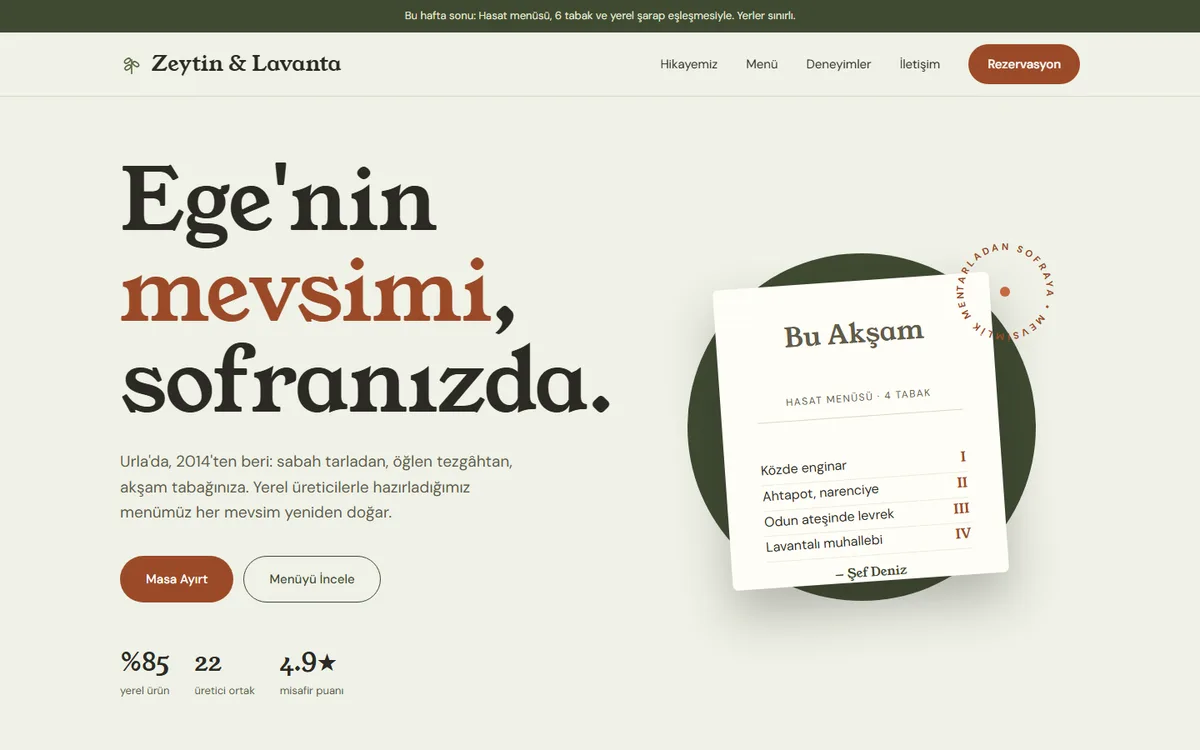
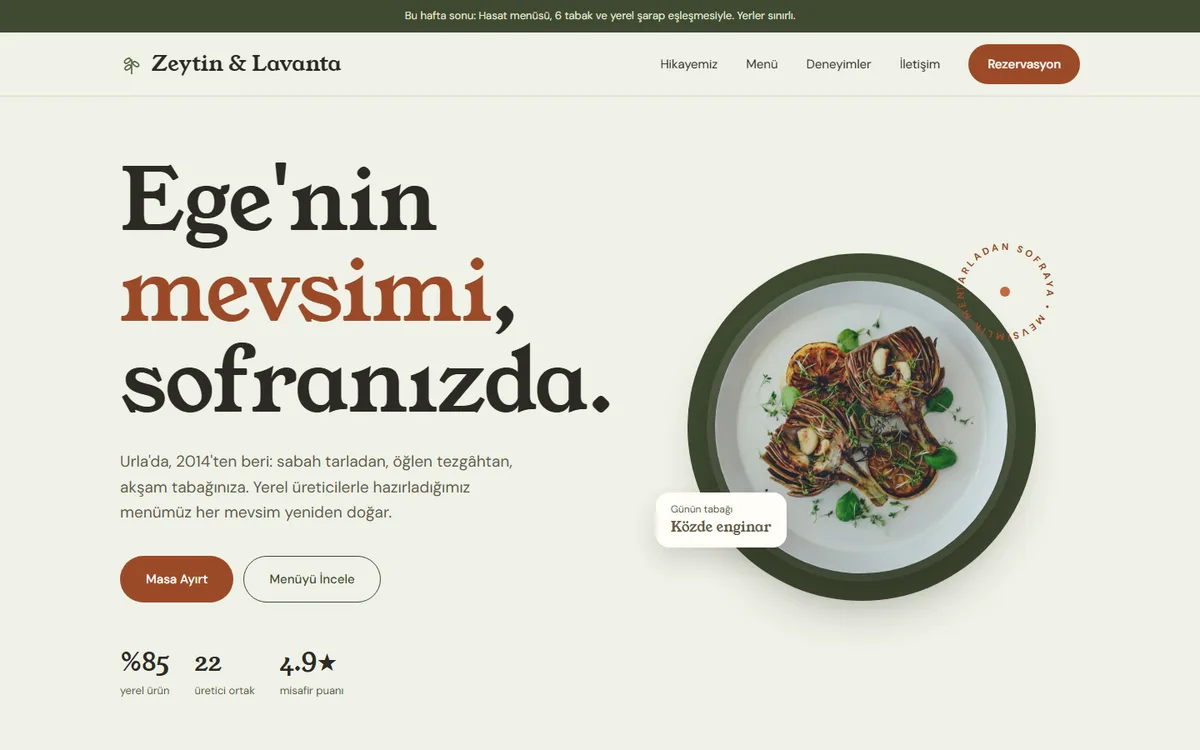
feat: Zeytin & Lavanta sayfasına gerçek fotoğraflar
- Açılıştaki menü kartı yerine közlenmiş enginar tabağı fotoğrafı ve "Günün tabağı" etiketi
- Hikâye bölümündeki yer tutucular yerine bahçe, odun fırını ve lavanta fotoğrafları (WebP)
- Fotoğraflar Unsplash lisanslı; footer'a kaynak bağlantıları eklendi
- Vitrin sayfasındaki restoran ekran görüntüleri güncellendi

Changed region(s): [[0.555, 0.368, 0.8633, 0.828]]

diff --git a/web-tasarim/restoran/index.html b/web-tasarim/restoran/index.html
@@ -52,13 +52,11 @@
   .badges b{display:block;font-family:var(--serif);font-size:30px;color:var(--ink);font-weight:400}
   .plate-wrap{position:relative;aspect-ratio:1}
   .plate-bg{position:absolute;inset:6%;border-radius:50%;background:var(--olive)}
-  .menu-card{position:absolute;left:15%;right:15%;top:13%;bottom:11%;background:#fffdf6;border-radius:6px;padding:8% 9%;box-shadow:0 30px 60px rgba(43,42,36,.3);transform:rotate(-4deg);display:flex;flex-direction:column;color:var(--ink)}
-  .menu-card .mc-title{font-family:var(--serif);font-size:clamp(22px,2.6vw,32px);text-align:center}
-  .menu-card .date{text-align:center;font-size:12px;letter-spacing:.12em;text-transform:uppercase;color:var(--muted);padding:6px 0 12px;border-bottom:1px solid var(--line)}
-  .menu-card ol{list-style:none;flex:1;display:flex;flex-direction:column;justify-content:space-around;padding:8px 0}
-  .menu-card li{font-size:clamp(13px,1.25vw,16px);display:flex;justify-content:space-between;gap:10px;border-bottom:1px dotted var(--line);padding-bottom:4px}
-  .menu-card li span{color:var(--terra-d);font-family:var(--serif)}
-  .menu-card .sig{text-align:center;font-family:var(--serif);color:var(--olive);font-size:15px}
+  .dish-photo{position:absolute;inset:13%;margin:0;border-radius:50%;overflow:hidden;box-shadow:0 30px 60px rgba(30,32,22,.45),0 0 0 10px rgba(239,241,231,.12)}
+  .dish-photo img{width:100%;height:100%;object-fit:cover;display:block;transform:scale(1.06)}
+  .dish-tag{position:absolute;left:-2%;bottom:12%;background:#fffdf6;border-radius:16px;padding:12px 18px;box-shadow:0 14px 30px rgba(43,42,36,.16);font-size:13px;line-height:1.35;color:var(--ink)}
+  .dish-tag small{display:block;font-size:12px;color:var(--muted)}
+  .dish-tag b{font-family:var(--serif);font-weight:400;font-size:17px}
   .stamp{position:absolute;right:0;top:2%;width:130px;height:130px;animation:spin 22s linear infinite}
   .stamp text{font-family:var(--sans);font-size:11.5px;letter-spacing:3.2px;font-weight:700;fill:var(--terra-d)}
   @keyframes spin{to{transform:rotate(360deg)}}
@@ -154,10 +152,7 @@
     .foot-grid{grid-template-columns:1fr}
     .stamp{width:96px;height:96px}
     .dish h3{font-size:20px}
-    .plate-wrap{aspect-ratio:auto;padding:56px 0}
-    .plate-bg{inset:auto;left:50%;top:50%;width:94%;aspect-ratio:1;transform:translate(-50%,-50%)}
-    .menu-card{position:relative;left:auto;right:auto;top:auto;bottom:auto;width:78%;margin:0 auto;padding:28px 22px;gap:4px}
-    .menu-card ol{gap:8px}
+    .dish-tag{left:0;bottom:4%;padding:10px 14px}
   }
   @media (prefers-reduced-motion:reduce){.stamp,.dishes{animation:none}html{scroll-behavior:auto}}
 </style>
@@ -199,20 +194,11 @@
         <div><b>4.9★</b>misafir puanı</div>
       </div>
     </div>
-    <div class="plate-wrap" aria-hidden="true">
-      <div class="plate-bg"></div>
-      <div class="menu-card">
-        <p class="mc-title">Bu Akşam</p>
-        <p class="date">Hasat Menüsü · 4 tabak</p>
-        <ol>
-          <li>Közde enginar<span>I</span></li>
-          <li>Ahtapot, narenciye<span>II</span></li>
-          <li>Odun ateşinde levrek<span>III</span></li>
-          <li>Lavantalı muhallebi<span>IV</span></li>
-        </ol>
-        <p class="sig">— Şef Deniz</p>
-      </div>
-      <svg class="stamp" viewBox="0 0 130 130"><defs><path id="circ" d="M65 65m-50 0a50 50 0 1 1 100 0a50 50 0 1 1-100 0"/></defs><text><textPath href="#circ">TARLADAN SOFRAYA • MEVSİMLİK MENÜ • </textPath></text><circle cx="65" cy="65" r="6" fill="#c4683f"/></svg>
+    <div class="plate-wrap">
+      <div class="plate-bg" aria-hidden="true"></div>
+      <figure class="dish-photo"><img src="img/gunun-tabagi.webp" width="900" height="900" alt="Beyaz tabakta közlenmiş enginar, sarımsak ve taze otlar" fetchpriority="high"></figure>
+      <svg class="stamp" viewBox="0 0 130 130" aria-hidden="true"><defs><path id="circ" d="M65 65m-50 0a50 50 0 1 1 100 0a50 50 0 1 1-100 0"/></defs><text><textPath href="#circ">TARLADAN SOFRAYA • MEVSİMLİK MENÜ • </textPath></text><circle cx="65" cy="65" r="6" fill="#c4683f"/></svg>
+      <p class="dish-tag"><small>Günün tabağı</small><b>Közde enginar</b></p>
     </div>
   </div>
 </section>
@@ -224,9 +210,9 @@
 <section id="hikaye" class="story">
   <div class="wrap story-grid">
     <div class="story-art">
-      <figure class="tile t1"><img src="img/bahce.svg" width="600" height="800" alt="Restoranın sebze bahçesi" loading="lazy"><figcaption>Bahçemiz</figcaption></figure>
-      <figure class="tile t2"><img src="img/firin.svg" width="600" height="800" alt="Mutfaktaki odun fırını" loading="lazy"><figcaption>Odun fırını</figcaption></figure>
-      <figure class="tile t3"><img src="img/lavanta.svg" width="1200" height="675" alt="Lavanta bahçesinde kurulmuş akşam yemeği masası" loading="lazy"><figcaption>Lavanta bahçesinde akşam yemeği</figcaption></figure>
+      <figure class="tile t1"><img src="img/bahce.webp" width="600" height="800" alt="Sıra sıra yeşil sebze tarhları" loading="lazy"><figcaption>Bahçemiz</figcaption></figure>
+      <figure class="tile t2"><img src="img/firin.webp" width="600" height="800" alt="Odun fırınında közleri karıştıran fırıncı" loading="lazy"><figcaption>Odun fırını</figcaption></figure>
+      <figure class="tile t3"><img src="img/lavanta.webp" width="1200" height="675" alt="Gün batımında lavanta tarlası" loading="lazy"><figcaption>Lavanta bahçesi</figcaption></figure>
     </div>
     <div>
       <span class="kicker">Hikayemiz</span>
@@ -341,7 +327,7 @@
       <div><h4>İletişim</h4><a href="#rezervasyon">+90 (232) 555 14 07</a><a href="#rezervasyon">merhaba@zeytinlavanta.com</a></div>
       <div><h4>Takip Edin</h4><a href="#">Instagram</a><a href="#">Bülten</a></div>
     </div>
-    <div class="copy"><span>© 2026 Zeytin & Lavanta</span><span>Gizlilik · KVKK</span></div>
+    <div class="copy"><span>© 2026 Zeytin & Lavanta · Fotoğraflar: <a href="https://unsplash.com/photos/HeqXGxnsnX4" style="display:inline">Markus Winkler</a>, <a href="https://unsplash.com/photos/IBCcvkBCrXw" style="display:inline">DDP</a>, <a href="https://unsplash.com/photos/c1Jp-fo53U8" style="display:inline">Unsplash</a>, <a href="https://unsplash.com/photos/aWWl29-VX7Y" style="display:inline">Unsplash</a></span><span>Gizlilik · KVKK</span></div>
   </div>
 </footer>
 
